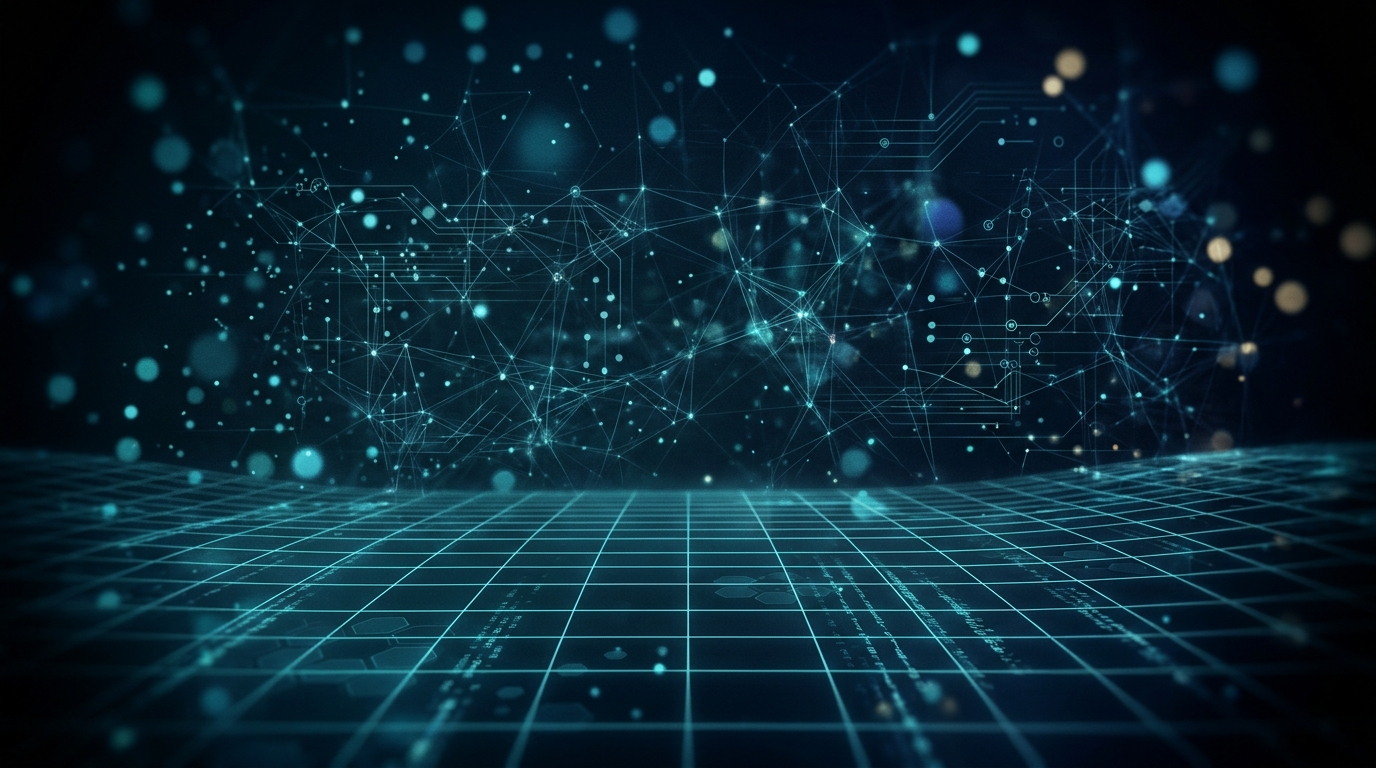
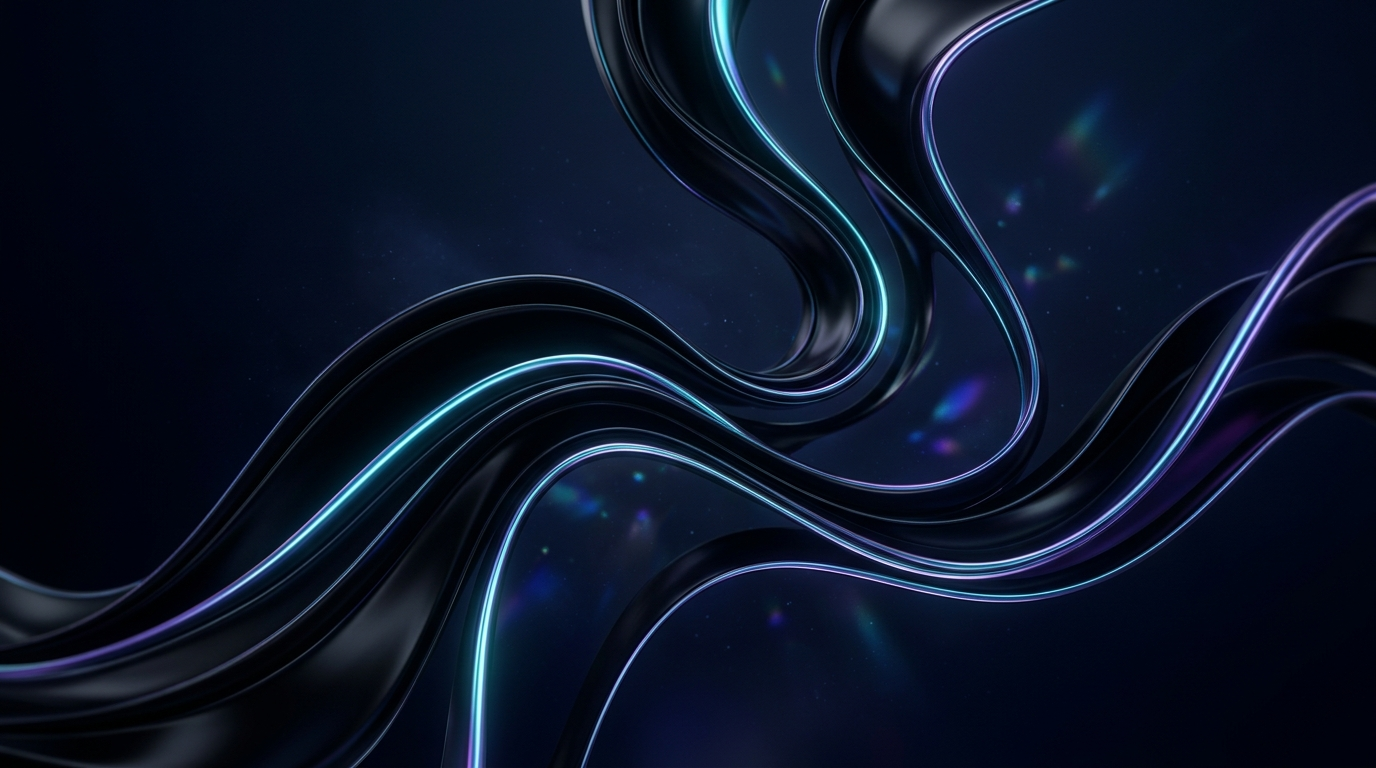
style: upgrade to sleek fluid obsidian and neon rim-lit wallpaper

diff --git a/client/src/pages/Home.jsx b/client/src/pages/Home.jsx
@@ -1541,19 +1541,19 @@ export default function Home() {
     <div className="relative min-h-screen bg-[#030712] text-slate-100 selection:bg-cyan-500 selection:text-black">
       {/* Immersive Cyber Forensic Ambient Background */}
       <div className="pointer-events-none fixed inset-0 z-0 overflow-hidden">
-        {/* High-res Cybernetic Neural Mesh Wallpaper */}
+        {/* Sleek Fluid Obsidian & Neon Rim-lit Wallpaper */}
         <div
-          className="absolute inset-0 bg-cover bg-center bg-no-repeat opacity-40 mix-blend-screen scale-[1.02] transform transition-transform duration-1000"
+          className="absolute inset-0 bg-cover bg-center bg-no-repeat opacity-55 scale-[1.01] transform transition-transform duration-1000"
           style={{ backgroundImage: `url('/images/deep-forensic-bg.jpg')` }}
         />
-        {/* Dual-layer Ambient Vignette & Gradient Overlays for High Legibility */}
-        <div className="absolute inset-0 bg-gradient-to-b from-[#030712]/65 via-[#030712]/45 to-[#030712]/85" />
-        <div className="absolute inset-0 bg-[radial-gradient(ellipse_at_center,_transparent_30%,_#030712_85%)]" />
+        {/* Soft Vignette & Atmospheric Gradient Overlays */}
+        <div className="absolute inset-0 bg-gradient-to-b from-[#030712]/50 via-[#030712]/40 to-[#030712]/80" />
+        <div className="absolute inset-0 bg-[radial-gradient(ellipse_at_center,_transparent_35%,_#030712_88%)]" />
 
         {/* Ambient dynamic glow orbs for dimensional depth */}
-        <div className="absolute -top-40 left-1/4 h-[550px] w-[550px] rounded-full bg-cyan-500/15 blur-[140px]" />
-        <div className="absolute top-1/3 -right-40 h-[650px] w-[650px] rounded-full bg-indigo-500/15 blur-[160px]" />
-        <div className="absolute -bottom-40 left-1/3 h-[500px] w-[500px] rounded-full bg-purple-500/15 blur-[150px]" />
+        <div className="absolute -top-40 left-1/4 h-[550px] w-[550px] rounded-full bg-cyan-500/10 blur-[140px]" />
+        <div className="absolute top-1/3 -right-40 h-[650px] w-[650px] rounded-full bg-indigo-500/10 blur-[160px]" />
+        <div className="absolute -bottom-40 left-1/3 h-[500px] w-[500px] rounded-full bg-purple-500/10 blur-[150px]" />
       </div>
 
       <div className="relative mx-auto flex min-h-screen max-w-7xl flex-col px-4 py-6 sm:px-8">
